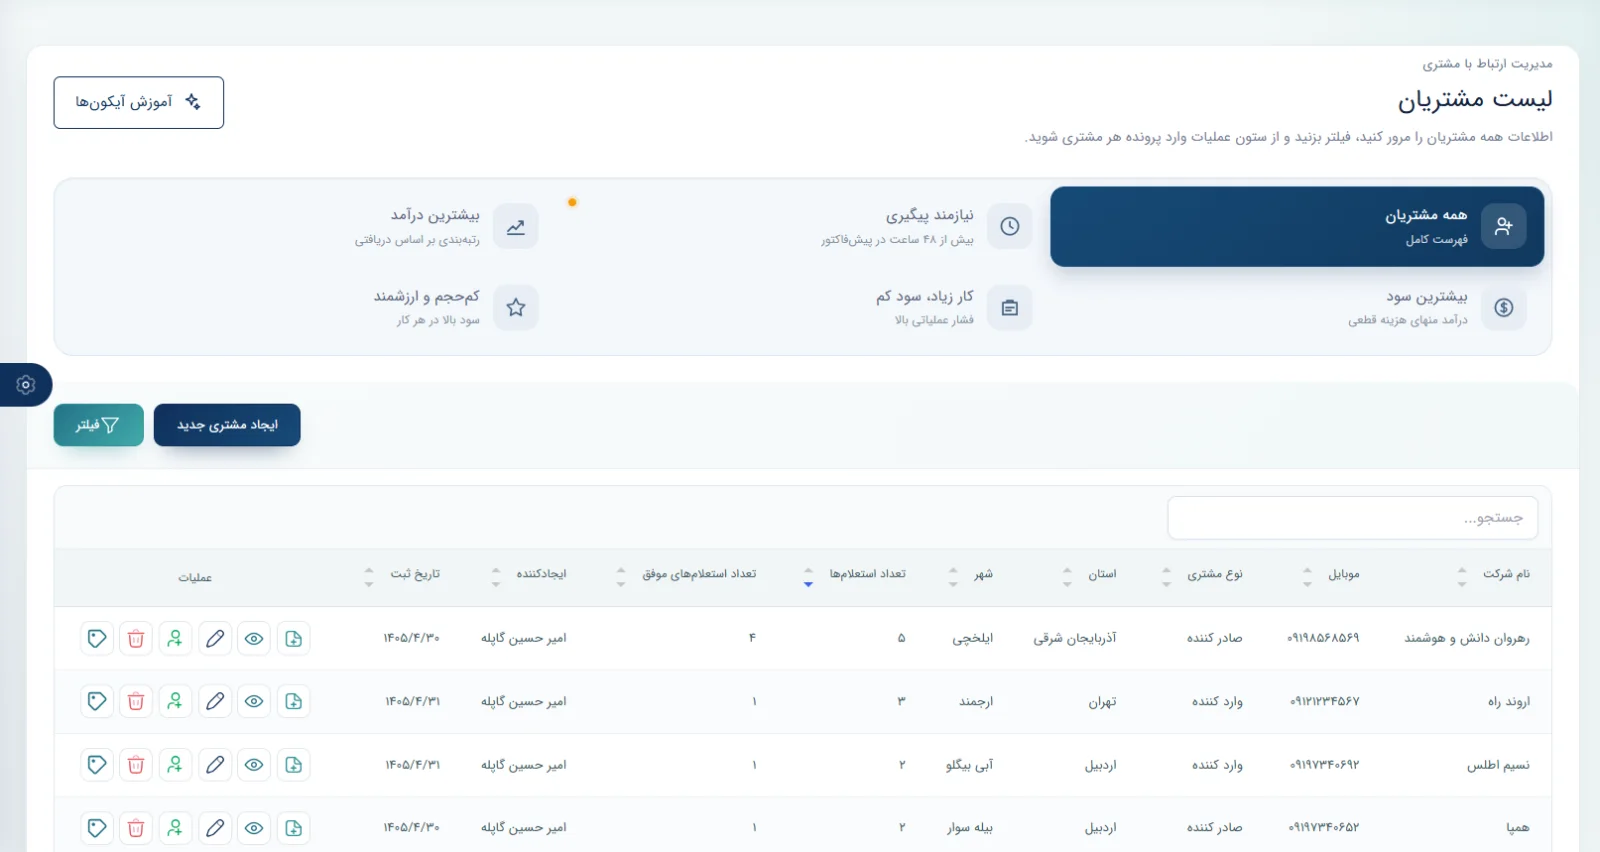
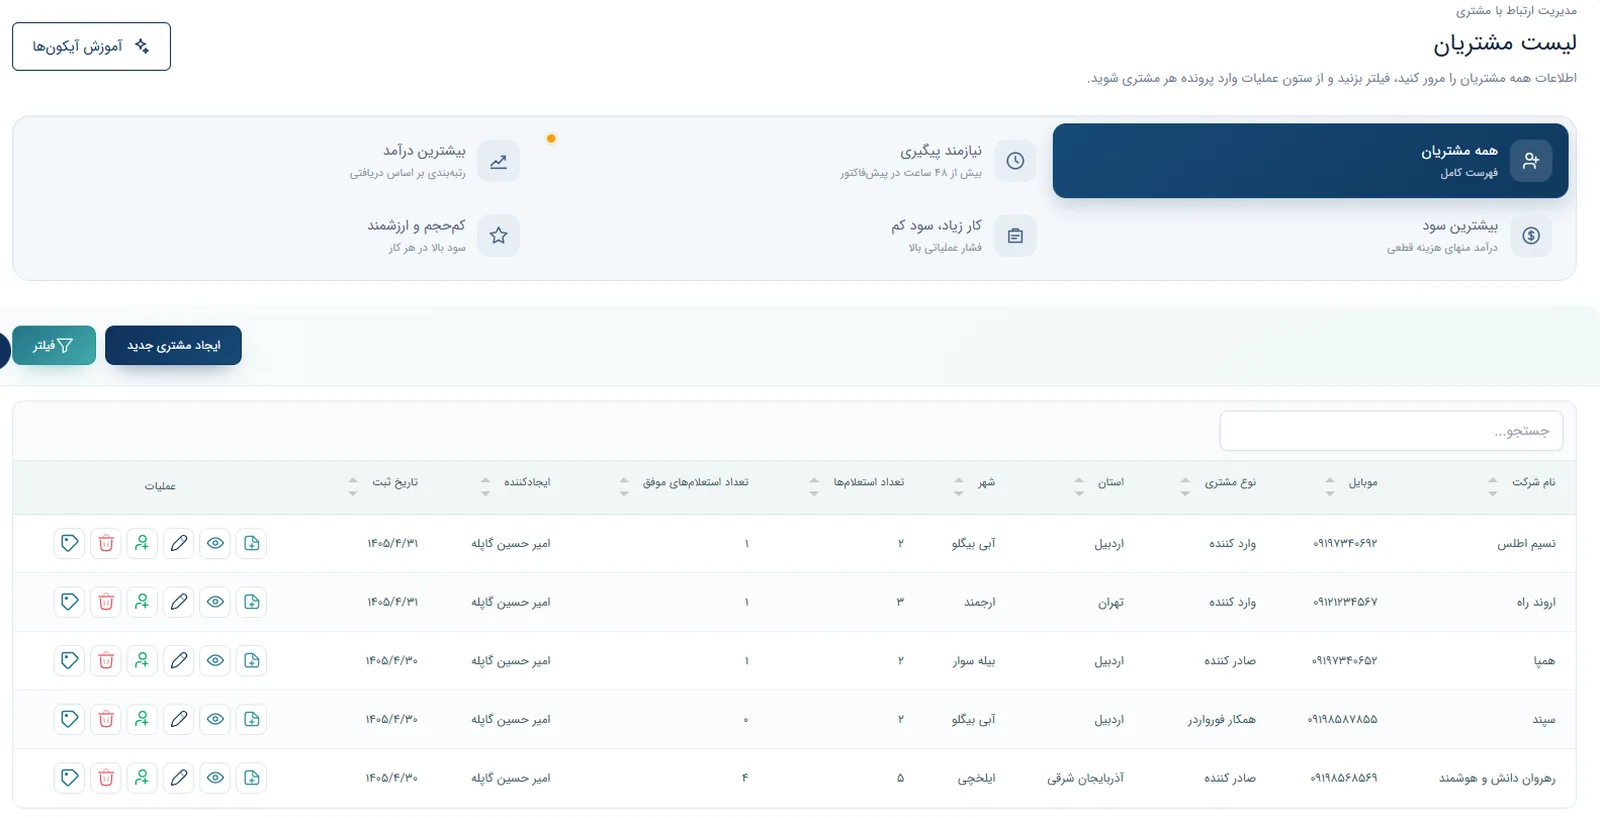
s

diff --git a/resources/views/marketing/product-overview.blade.php b/resources/views/marketing/product-overview.blade.php
@@ -32,10 +32,7 @@
             'cta' => 'مشاهده ماژول CRM',
             'images' => [
                 ['path' => 'product-showcase/desktop-dashboard.webp', 'width' => 1600, 'height' => 799, 'alt' => 'داشبورد واقعی پیگیریهای امروز، عقبافتاده و آینده در CRM سپند', 'caption' => 'داشبورد پیگیریهای من؛ کارهای عقبافتاده، امروز، بدون اقدام بعدی و پیگیریهای آینده'],
-                ['path' => 'modules/screenshots/crm-customers.webp', 'width' => 1600, 'height' => 852, 'alt' => 'فهرست واقعی مشتریان و دستهبندی درآمد و سود مشتری در CRM سپند', 'caption' => 'فهرست مشتریان با نماهای بیشترین درآمد، بیشترین سود، کار زیاد با سود کم و کمحجم و ارزشمند'],
-            ],
-            'missing_evidence' => [
-                ['file' => 'crm-customer-profit-analysis.webp', 'label' => 'جدول نتیجه یکی از نماهای تحلیلی مشتریان در حالت فعال؛ ترجیحاً «بیشترین سود» یا «کار زیاد، سود کم»'],
+                ['path' => 'modules/screenshots/crm-customers.webp', 'width' => 1600, 'height' => 818, 'alt' => 'فهرست واقعی مشتریان و نماهای تحلیلی درآمد و سود در CRM سپند', 'caption' => 'فهرست مشتریان با نماهای بیشترین درآمد، بیشترین سود، کار زیاد با سود کم و کمحجم و ارزشمند'],
             ],
         ],
         [
@@ -51,9 +48,9 @@
             'reverse' => true,
             'images' => [
                 ['path' => 'modules/screenshots/pricing-sales-workflow.webp', 'width' => 1600, 'height' => 687, 'alt' => 'برد واقعی استعلام قیمت تأمینکننده و ارسال پیشنهاد نرخ در سپند', 'caption' => 'جریان واقعی بررسی مسیر، استعلام قیمت تأمینکننده، ثبت و ارسال پیشنهاد نرخ، تأیید مشتری و تبدیل به Booking'],
+                ['path' => 'modules/screenshots/pricing-supplier-comparison.webp', 'width' => 1600, 'height' => 839, 'alt' => 'مقایسه واقعی تأمینکنندگان بر اساس نرخ خرید، مسیر، اعتبار، Free Time و سابقه عملکرد در سپند', 'caption' => 'مقایسه کنارهم تأمینکنندگان با نرخ خرید، Transit Time، مسیر، اعتبار نرخ، Free Time، سابقه تأخیر و کیفیت پاسخگویی'],
             ],
             'missing_evidence' => [
-                ['file' => 'pricing-supplier-comparison.webp', 'label' => 'نمای مقایسه پیشنهاد تأمینکنندگان با نرخ، مدت حمل، اعتبار، Free Time و شرایط پرداخت'],
                 ['file' => 'pricing-proposed-rate.webp', 'label' => 'نمای ثبت نرخ پیشنهادی و Margin فروش پیش از ارسال Quote به مشتری'],
             ],
         ],

diff --git a/config/module_screenshots.php b/config/module_screenshots.php
@@ -5,9 +5,9 @@ return [
         [
             'path' => 'modules/screenshots/crm-customers.webp',
             'width' => 1600,
-            'height' => 852,
-            'alt' => 'فهرست مشتریان و شاخصهای پیگیری در ماژول CRM سپند',
-            'caption' => 'فهرست مشتریان، جستوجو و شاخصهای پیگیری CRM',
+            'height' => 818,
+            'alt' => 'فهرست واقعی مشتریان و نماهای تحلیلی درآمد و سود در CRM سپند',
+            'caption' => 'فهرست مشتریان و دسترسی به نماهای بیشترین درآمد، بیشترین سود، کار زیاد با سود کم و کمحجم و ارزشمند',
         ],
         [
             'path' => 'product-showcase/desktop-dashboard.webp',
@@ -31,6 +31,13 @@ return [
             'height' => 687,
             'alt' => 'برد مراحل استعلام و پیشنهاد نرخ در ماژول فروش سپند',
             'caption' => 'مراحل استعلام، پیشنهاد نرخ، تأیید مشتری و تبدیل به Booking',
+        ],
+        [
+            'path' => 'modules/screenshots/pricing-supplier-comparison.webp',
+            'width' => 1600,
+            'height' => 839,
+            'alt' => 'مقایسه واقعی تأمینکنندگان بر اساس نرخ خرید، مسیر، اعتبار، Free Time و سابقه عملکرد در سپند',
+            'caption' => 'مقایسه کنارهم تأمینکنندگان با نرخ خرید، Transit Time، مسیر، اعتبار نرخ، Free Time، سابقه تأخیر و کیفیت پاسخگویی',
         ],
     ],
     'booking' => [

diff --git a/tests/Feature/ProductOverviewPageTest.php b/tests/Feature/ProductOverviewPageTest.php
@@ -38,7 +38,6 @@ class ProductOverviewPageTest extends TestCase
             ->assertSee('نرخ پیشنهادی و هشدار انقضا', false)
             ->assertSee('تطبیق مالی Booking', false)
             ->assertSee('قانون تسک و تقویمهای جدا', false)
-            ->assertSee('crm-customer-profit-analysis.webp', false)
             ->assertSee('pricing-supplier-comparison.webp', false)
             ->assertSee('pricing-proposed-rate.webp', false)
             ->assertSee('data-missing-screenshot="document-management"', false)
@@ -56,6 +55,7 @@ class ProductOverviewPageTest extends TestCase
             '/assets/images/marketing/product-showcase/desktop-dashboard.webp',
             '/assets/images/marketing/modules/screenshots/crm-customers.webp',
             '/assets/images/marketing/modules/screenshots/pricing-sales-workflow.webp',
+            '/assets/images/marketing/modules/screenshots/pricing-supplier-comparison.webp',
             '/assets/images/marketing/modules/screenshots/booking-profitability.webp',
             '/assets/images/marketing/modules/screenshots/operations-calendar-month.webp',
             '/assets/images/marketing/modules/screenshots/finance-booking-reconciliation.webp',
@@ -72,6 +72,7 @@ class ProductOverviewPageTest extends TestCase
         $this->assertSame(1, substr_count($content, '<h1'));
         $this->assertStringNotContainsString('<meta name="keywords"', strtolower($content));
         $this->assertStringNotContainsString('<img src=""', $content);
+        $this->assertStringNotContainsString('crm-customer-profit-analysis.webp', $content);
     }
 
     public function test_home_and_shared_navigation_link_to_product_page(): void

diff --git a/tests/Feature/ModuleScreenshotGalleryTest.php b/tests/Feature/ModuleScreenshotGalleryTest.php
@@ -26,7 +26,7 @@ class ModuleScreenshotGalleryTest extends TestCase
             ['crm', 'pricing-sales', 'booking', 'transport-operations', 'finance-accounting', 'workflow-tasks', 'automatic-tasks', 'customer-portal-tracking'],
             array_keys($configured)
         );
-        $this->assertSame(14, array_sum(array_map('count', $configured)));
+        $this->assertSame(15, array_sum(array_map('count', $configured)));
 
         foreach ($configured as $slug => $screenshots) {
             $content = $this->get('/modules/'.$slug)
